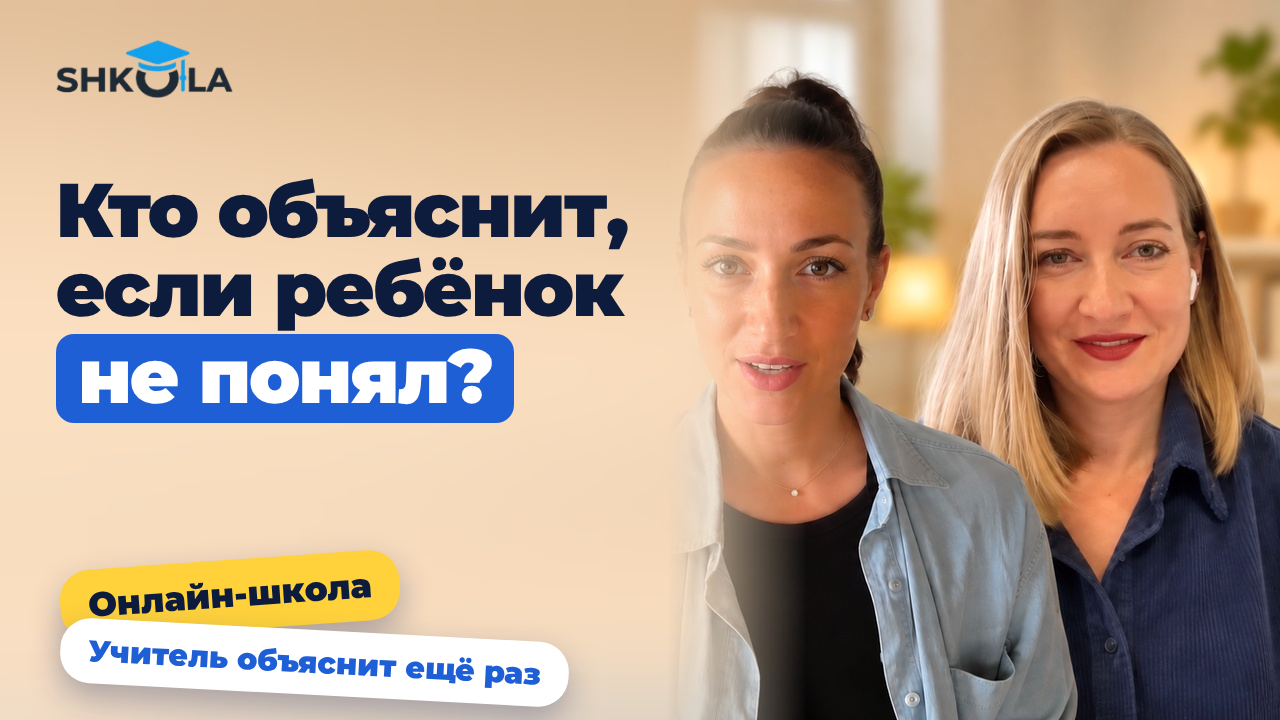
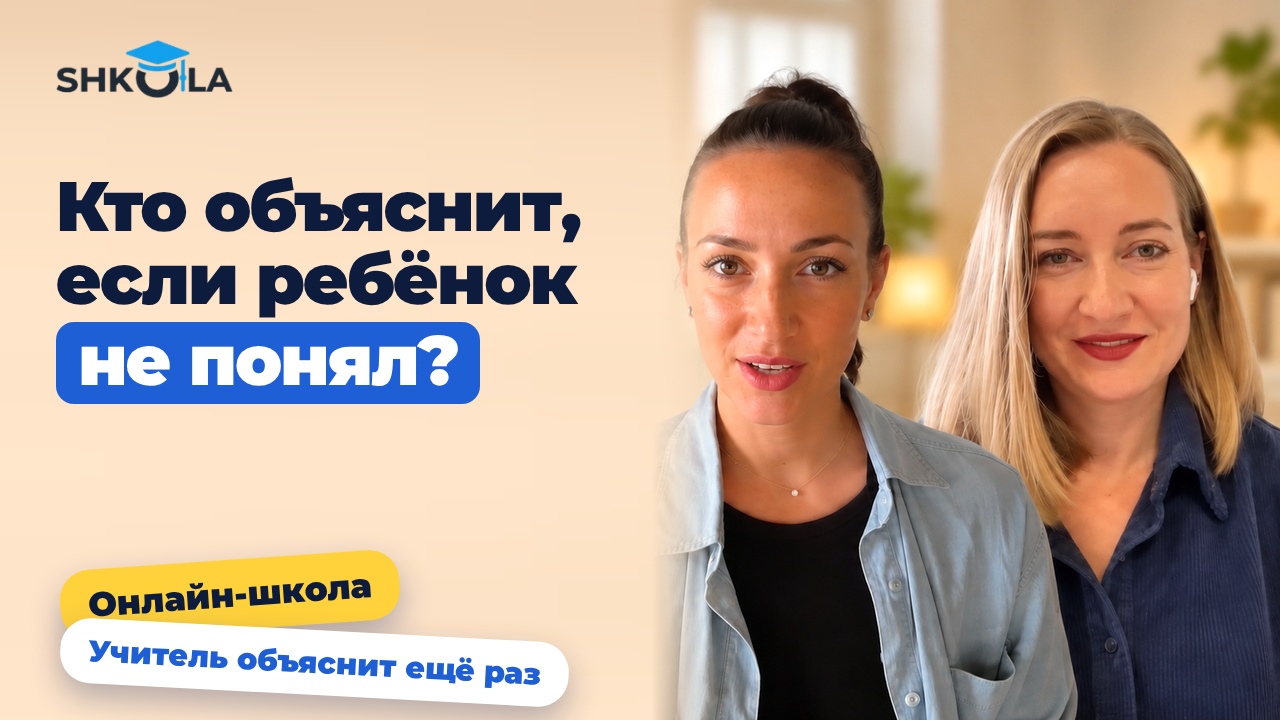
YouTube cover two women: faces fully clear
Claude-Session: https://claude.ai/code/session_01EUhV7x1P3xabAX3GuSkHDE

Changed region(s): [[0.0, 0.0, 0.625, 0.6111], [0.375, 0.3056, 0.625, 1.0]]

diff --git a/youtube-cover/gen_c.js b/youtube-cover/gen_c.js
@@ -15,7 +15,7 @@ const c1=`<img class=bg src="c1_bg.jpg"><div class=logo><img src="logo.png"></di
 <div class="st y" style="left:60px;top:560px;transform:rotate(-4deg)">Онлайн-школа без оценок</div>
 <div class="ck" style="left:540px;top:440px;transform:rotate(8deg)">✓</div>`;
 const c2=`<img class=bg src="c2_bg.jpg"><div class=logo><img src="logo.png"></div>
-<h1 style="top:170px;width:640px;font-size:76px">Кто объяснит, если ребёнок <em>не понял?</em></h1>
+<h1 style="top:170px;width:590px;font-size:70px">Кто объяснит, если ребёнок <em>не понял?</em></h1>
 <div class="st y" style="left:60px;top:560px;transform:rotate(-4deg)">Онлайн-школа</div>
 <div class="st w" style="left:60px;top:630px;transform:rotate(3deg);font-size:30px">Учитель объяснит ещё раз</div>`;
 (async()=>{const b=await chromium.launch();const pg=await b.newPage({viewport:{width:1280,height:720}});
